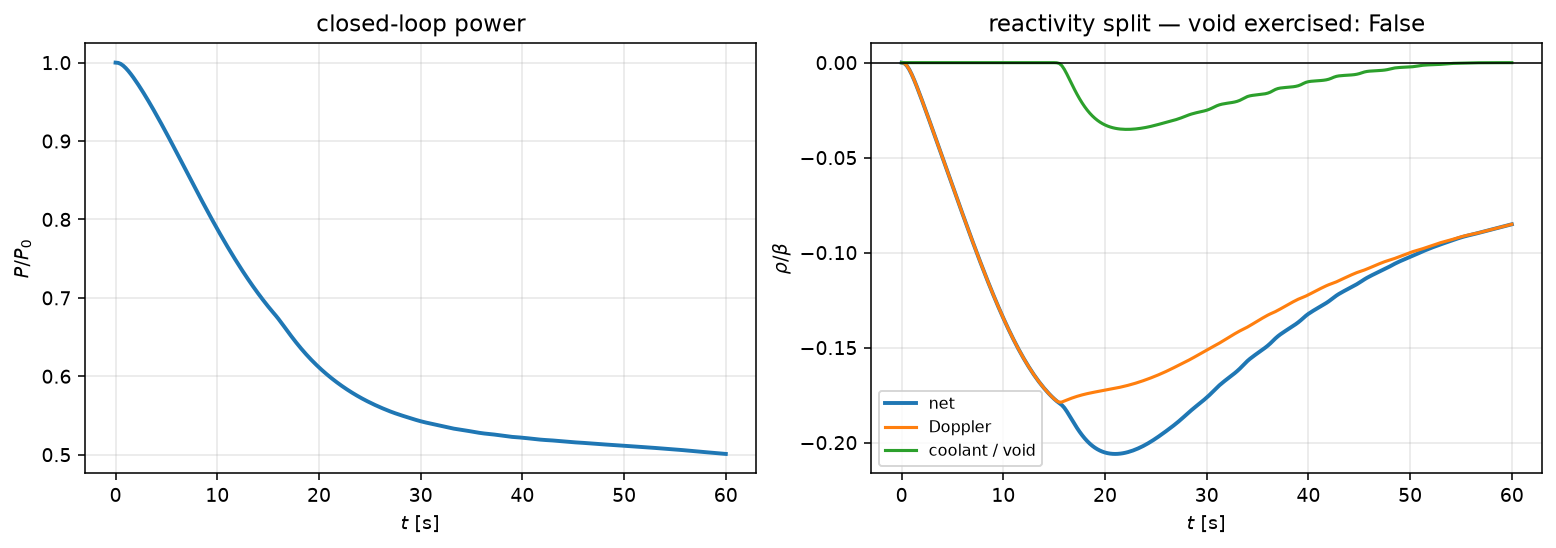
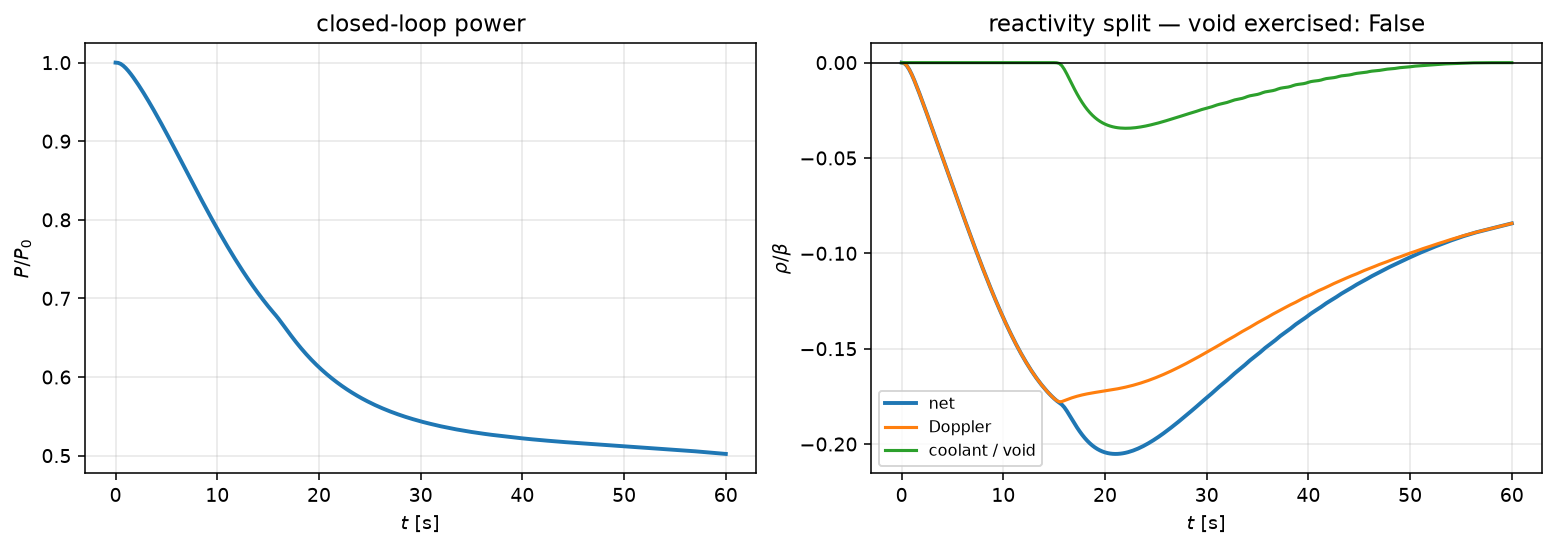
docs(axial): a roadmap ordered by what twelve measurements license
Sorting every isolated arm by what it CHANGED produces a sharper rule than
any of them produced alone. Function space: Fourier capacity, multi-scale
bands, anisotropic bandwidth -- all three worked, and bands moved the mean
and the extremum together. Optimiser: the quasi-Newton budget and the
curvature memory -- decisive, the only axis that forms the front at all.
Loss measure: level-set sampling, front fraction, block and causal weighting
-- failed or inert, with frontfrac degrading monotonically. Extra residuals:
onset head, front network, pseudo-time -- harmful. Re-parameterisation:
the level-set coordinate -- inert.

Change the function space or change the optimiser. Do not reweight the loss,
and do not add residuals the PDE already implies.

Section 8 is reframed around that, and gains four items chosen against it
rather than by novelty, with Annex D in REPORT-01 carrying the argument and
the 2026 sources.

The weak form is first, because it is the only candidate that addresses
Annex C's measure bug WITHOUT reweighting: locally supported test functions
make each test function a separate equation, so the front stops competing
for a share of one average. Integration by parts also lowers the derivative
order, which attacks the conditioning from the other end -- two of our three
diagnoses with one change.

Then Gauss-Newton / energy natural gradient with randomized Nystrom
preconditioning, which is the principled version of what L-BFGS
[…]

diff --git a/docs/axial_nn.md b/docs/axial_nn.md
@@ -2496,9 +2496,22 @@ collocation bug. Both are findings a single backend could not have produced.
 
 ## 8. What to do next
 
-In order, and none of it is "add another method". Nine remedies have now been
-argued soundly and refuted by measurement (§5.4, §7.2.1, §7.2.5, §7.2.6); the tenth
-would not be different.
+**The twelve remedies now make a pattern, and it is sharper than any of them.**
+Sorting every isolated arm by what it changed:
+
+| what it changed | outcome |
+|---|---|
+| **the function space** — Fourier capacity (§7.5.8), multi-scale bands (§7.5.14), anisotropic bandwidth (§7.5.12) | **all three worked**; bands moved the mean *and* the extremum together |
+| **the optimiser** — quasi-Newton budget (§7.5.11), curvature memory (§7.5.17) | **decisive**; the only axis that forms the front at all |
+| **the loss measure** — level-set sampling (§7.5.6), front fraction (§7.5.9), block and causal weighting | **failed or inert**; `frontfrac` degrades monotonically |
+| **extra residuals** — onset head (§7.5.16), front network, pseudo-time | **harmful**; a consequence of the PDE carries no information as a constraint |
+| **re-parameterisation** — level-set coordinate (§7.5.13) | **inert**; `φ` is a monotone function of `T_c`, which the network already computes |
+
+**Change the function space or change the optimiser. Do not reweight the loss, and
+do not add residuals the PDE already implies.** That is not a hunch — it is twelve
+measurements, and it is what the roadmap below is ordered against. The full version,
+with the 2026 literature it draws on, is `__DEV/REPORT-01-MILESTONES.md` Annex D.
+
 
 1. **Spend on the quasi-Newton axis, and find out where it ends** — §7.5.11. The
    completed 54-run surface says the Adam budget does no measurable work and the
@@ -2544,6 +2557,34 @@ would not be different.
 5. **Plan A at more than one seed** — §7.4. Given §7.1's 12.5× seed spread, the
    single Plan A measurement is an observation and is labelled as one.
 
-Everything above is measurable with the code as it stands; none of it needs new
-development, only compute and a converged void reference. No accuracy number from
+6. **The weak form** — `__DEV/…` Annex D.3, and the highest-value item beyond the
+   budget questions. It is the only candidate that addresses Annex C's measure bug
+   *without* reweighting: integrating the residual against locally supported test
+   functions makes each test function a **separate equation**, so the front stops
+   competing for a share of one average and gets its own rows. Integration by parts
+   also lowers the derivative order, which attacks the ill-conditioning from the
+   other end. `hp`-VPINN and Petrov–Galerkin VPINN are the current forms, and a
+   boiling front in a 590 K field is a singular perturbation, which is the regime
+   they are written for.
+7. **Gauss-Newton / energy natural gradient, preconditioned** — Annex D.4. The
+   principled version of what L-BFGS approximates, now affordable via randomized
+   Nyström preconditioning of the Gramian. Follows the bake-off rather than
+   replacing it: SSBroyden sets the bar it has to clear.
+8. **Least squares on frozen random features** — Annex D.5. The limit of "Adam
+   contributes nothing and the linear algebra contributes everything": freeze the
+   hidden layer and the residual is linear in the output weights. This model already
+   uses random Fourier features, so it is closer than it sounds — the obstacle is
+   that our residual is *not* linear in the output (log Doppler, cubed `tanh`
+   closure), so it needs an outer linearisation, which is Gauss-Newton again.
+9. **Shock fitting and partition-of-unity decomposition, borrowed from CFD** —
+   Annex D.6. Shock fitting makes the front an **unknown of the formulation** rather
+   than a residual bolted onto a fixed parameterisation, which is exactly where
+   §7.5.16's onset head went wrong. FBPINN's reported mechanism — localisation turns
+   global high frequencies into local low ones — is §7.5.14's band result stated in
+   space rather than in frequency, which argues both that it will work and that the
+   two may be redundant.
+
+Items 1–5 are measurable with the code as it stands and need only compute. Items
+6–9 need real development, and are ordered so that the cheap answers arrive first —
+if the quasi-Newton budget alone closes the gap, most of the rest is unnecessary. No accuracy number from
 this model should be quoted outside this document, and none is.
